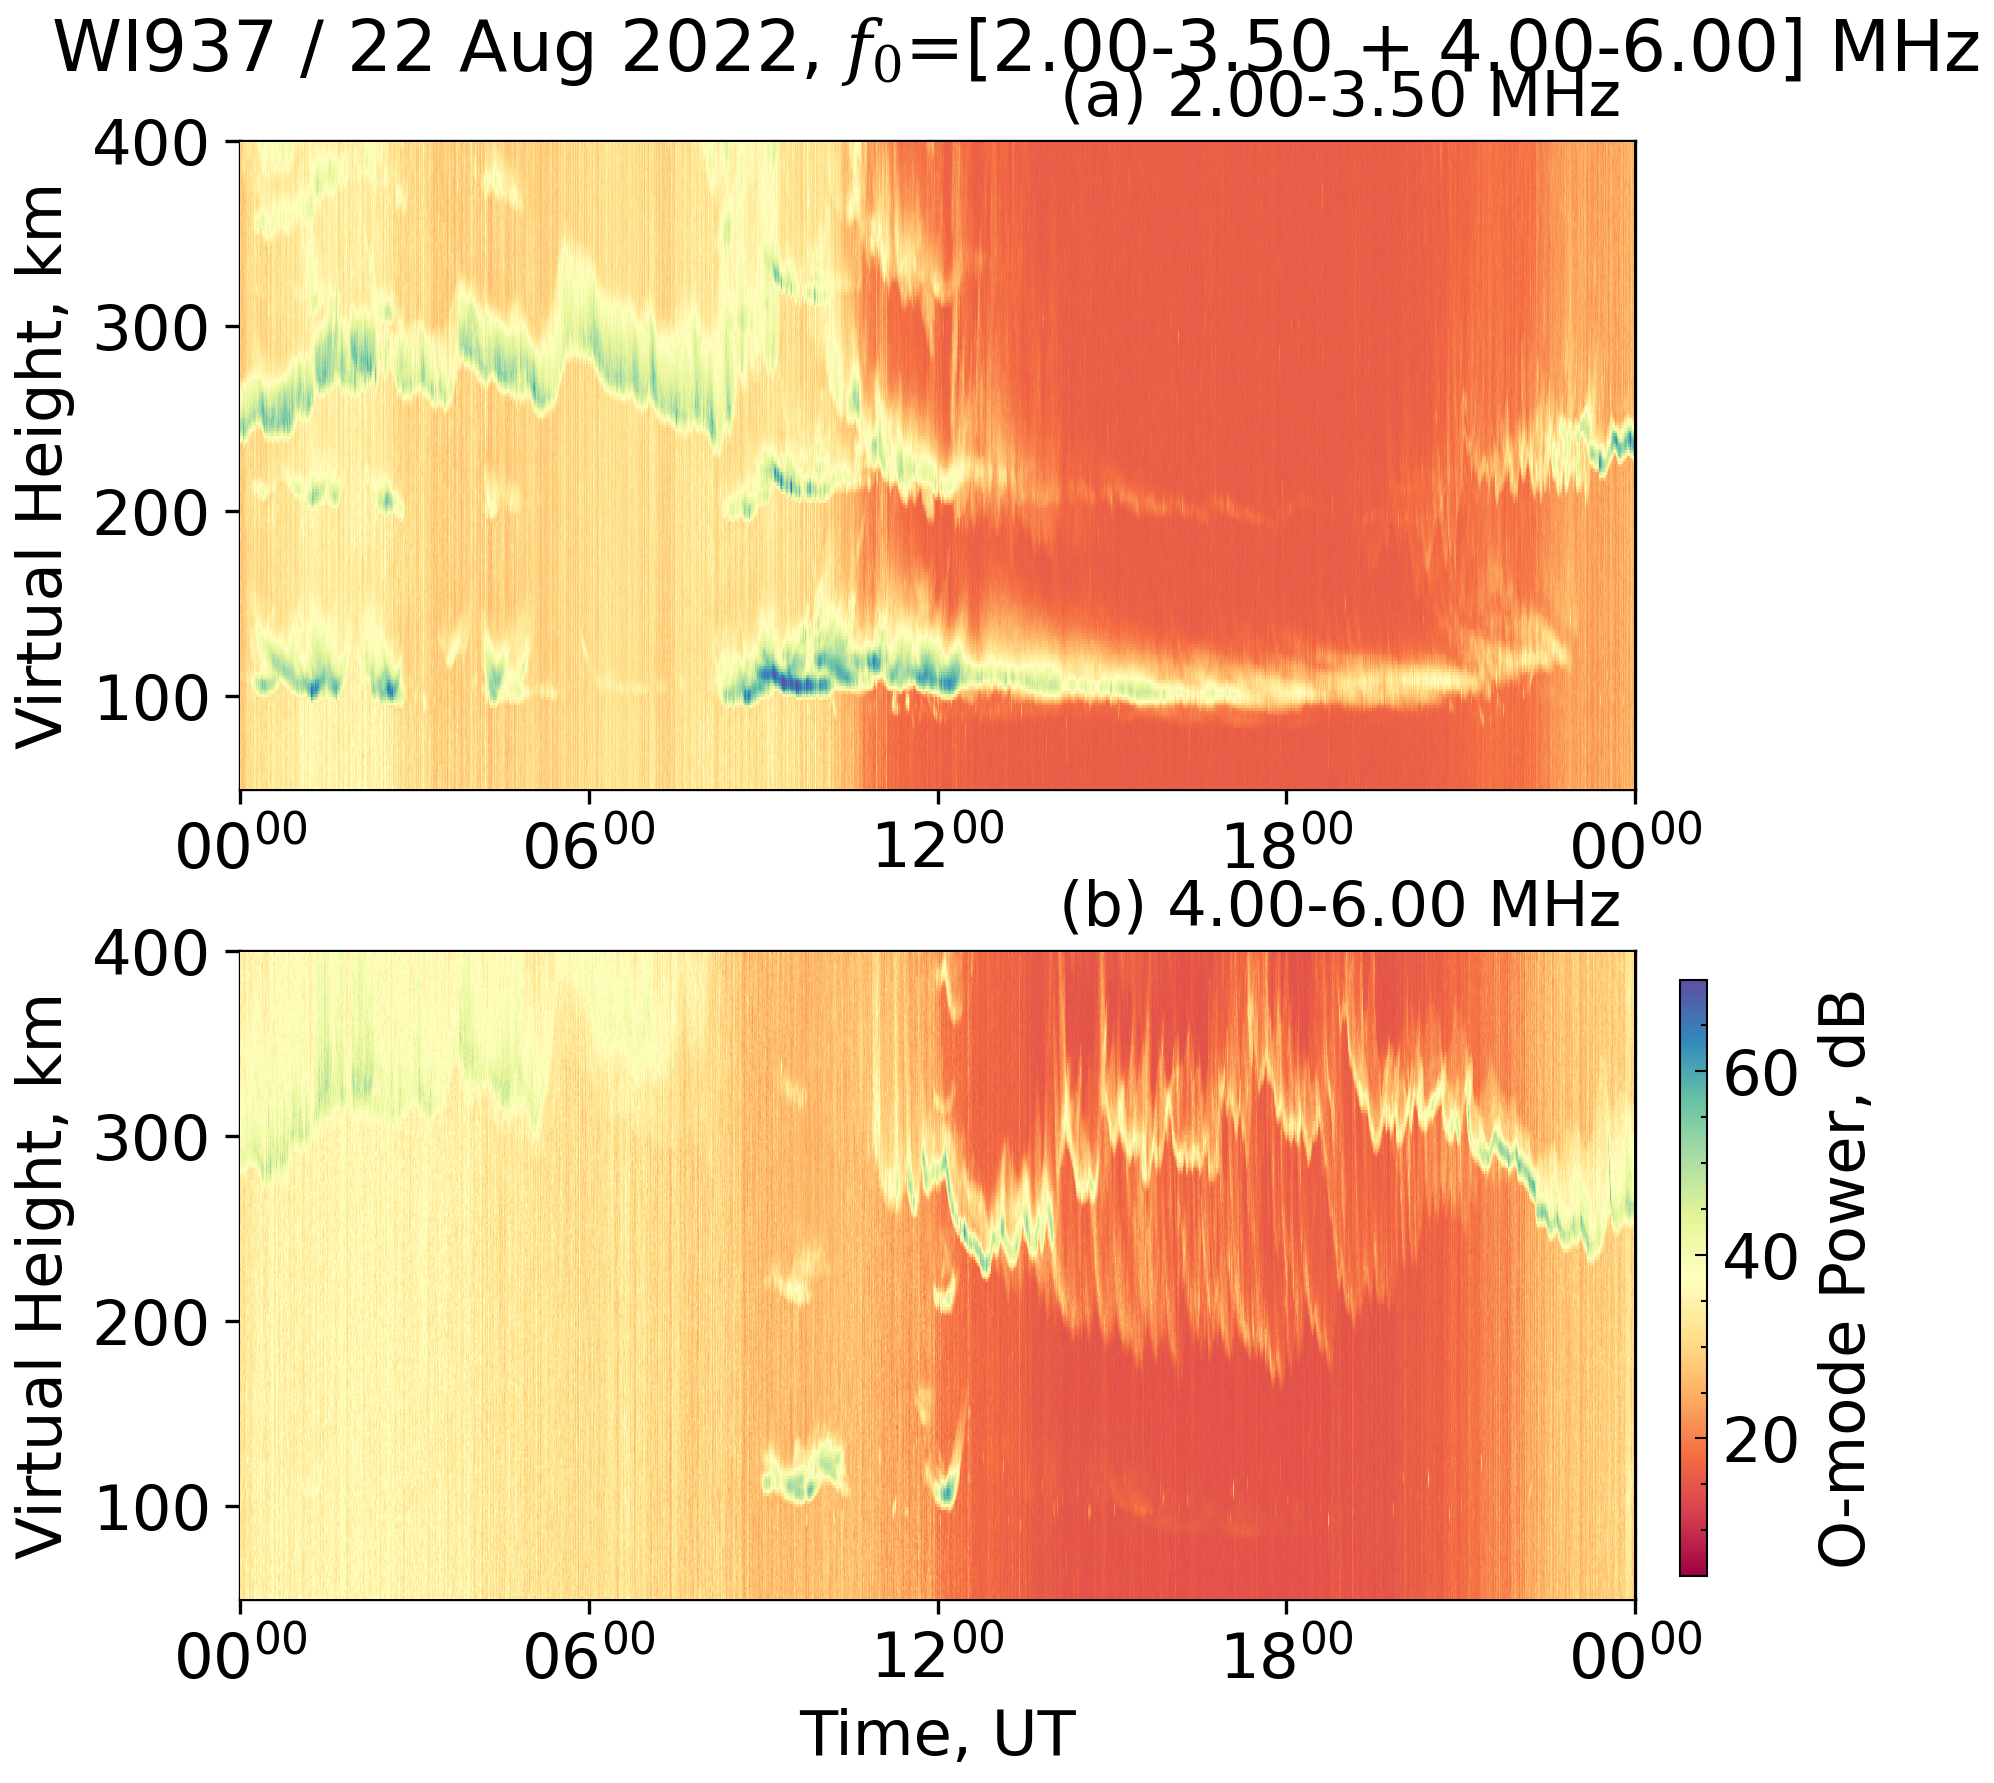
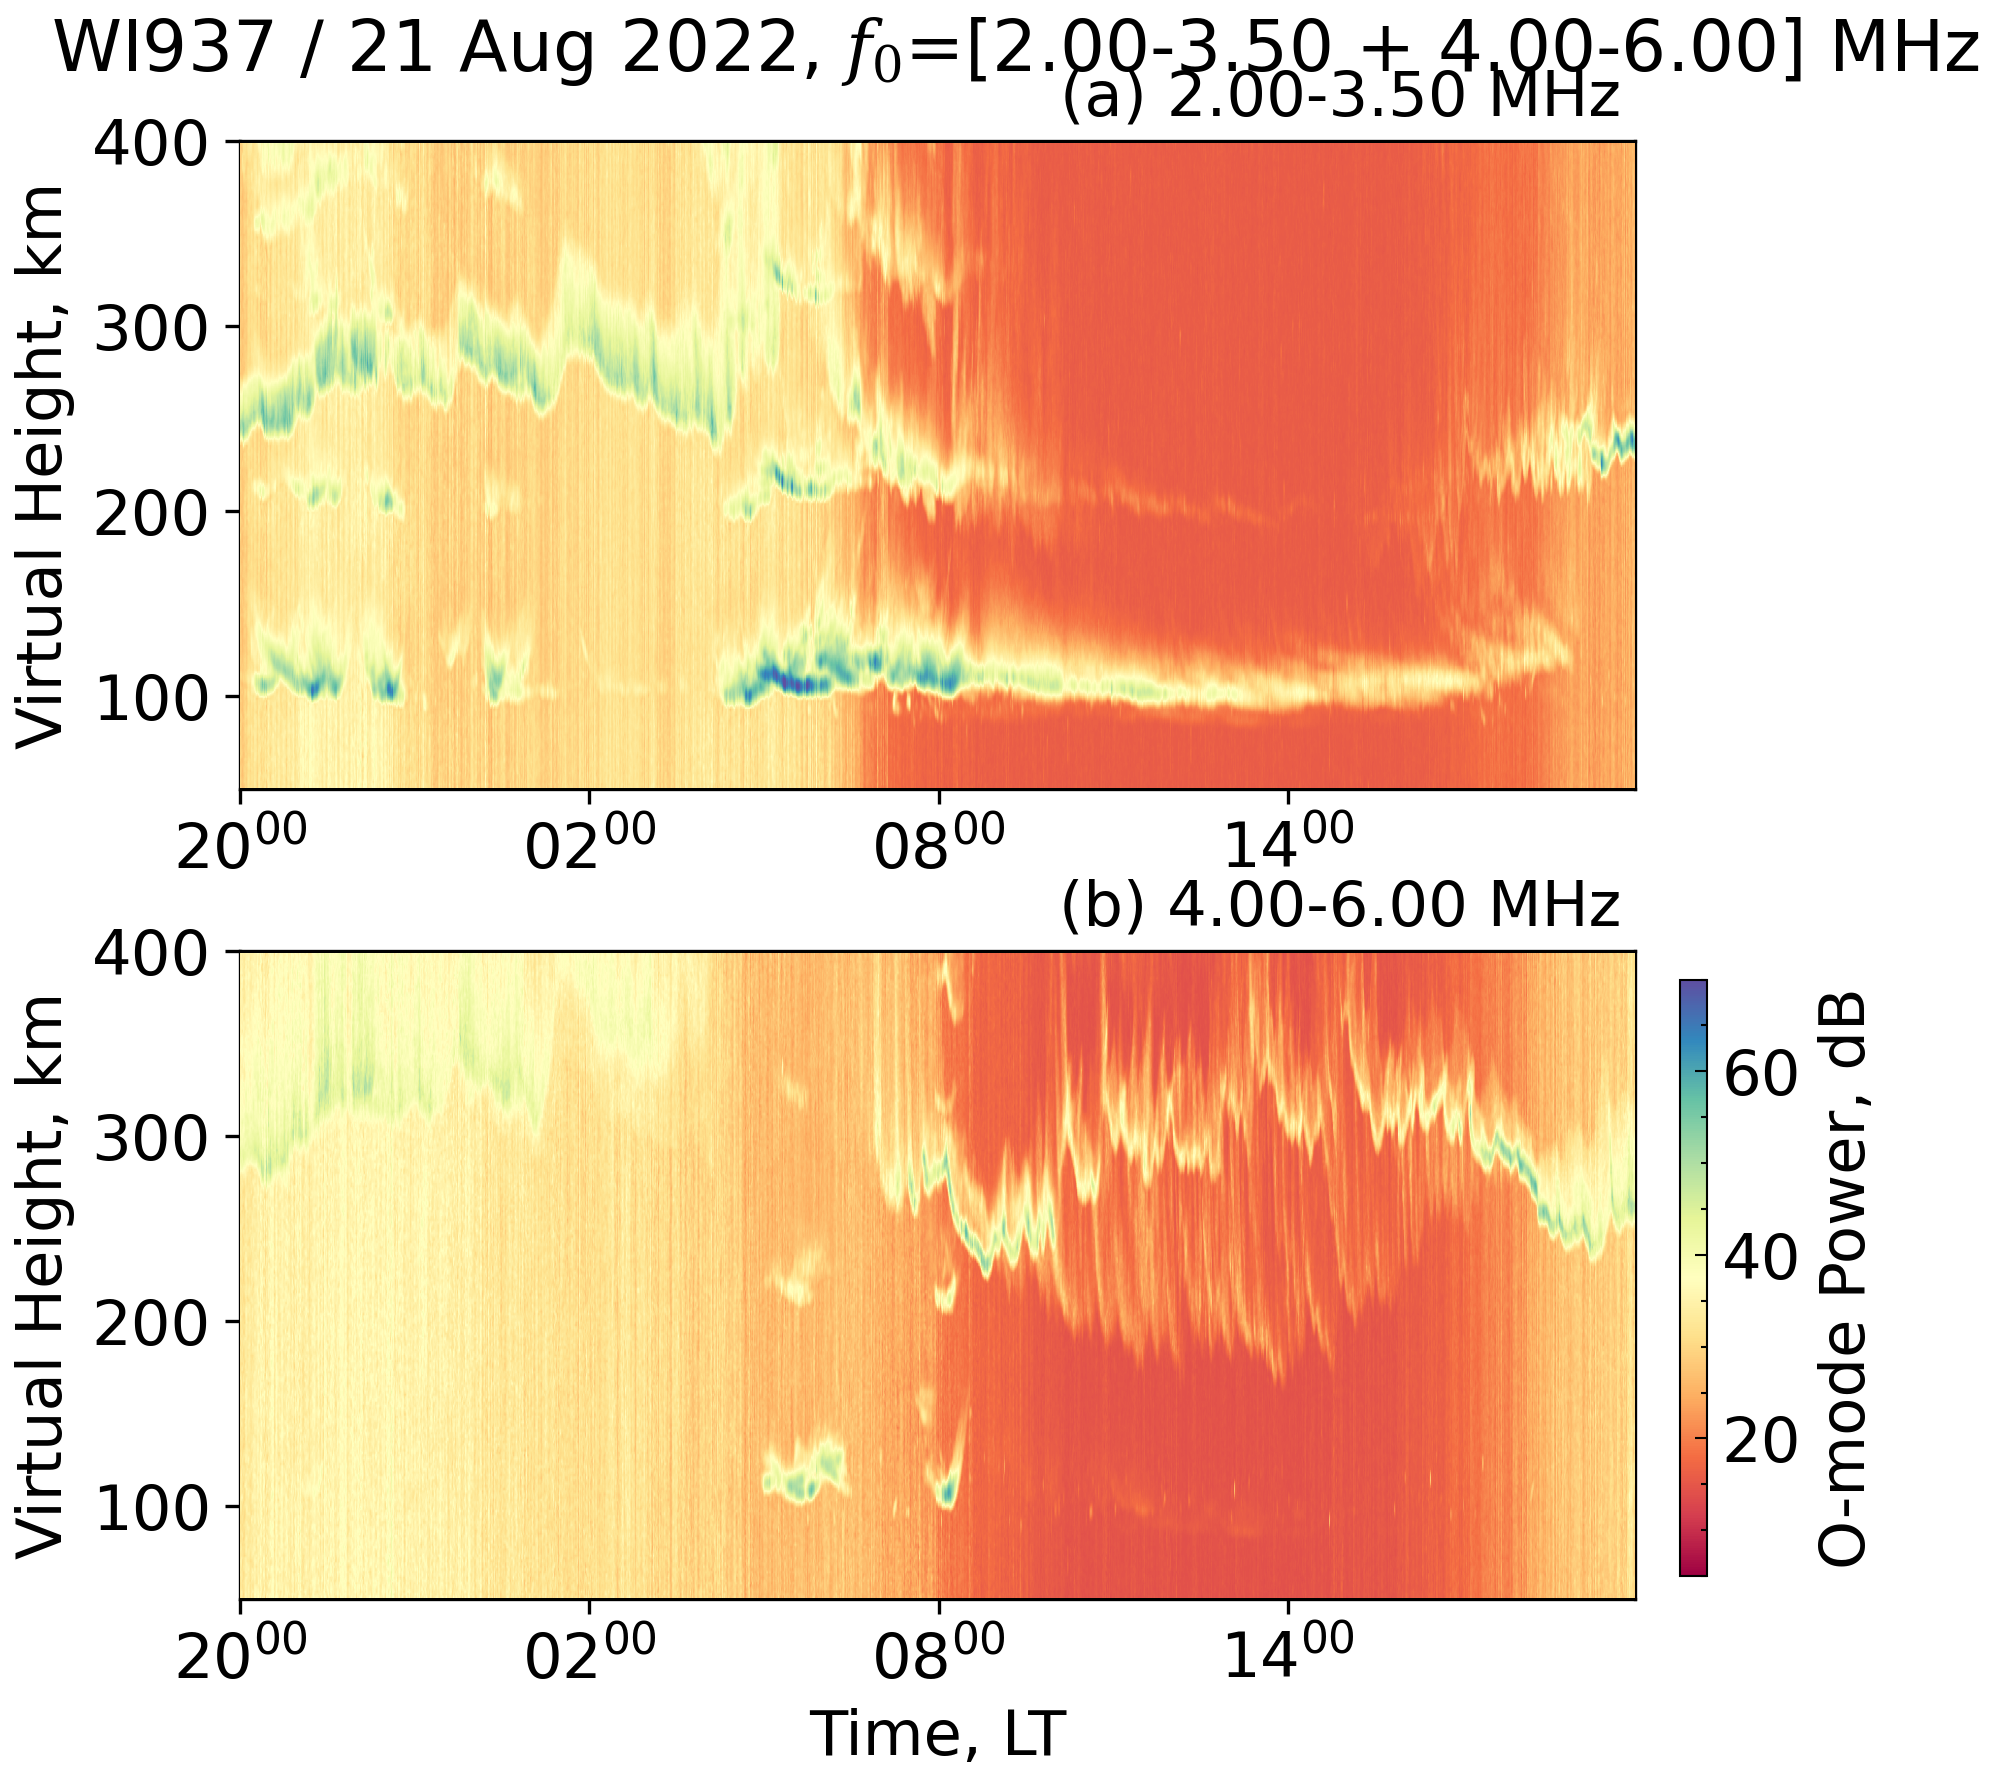
Updated figures V1 - Paper

diff --git a/examples/vipir/fti.py b/examples/vipir/fti.py
@@ -26,6 +26,7 @@ from loguru import logger
 from pynasonde.digisonde.digi_utils import setsize
 from pynasonde.vipir.ngi.plotlib import Ionogram
 from pynasonde.vipir.ngi.source import DataSource
+from pynasonde.vipir.ngi.utils import TimeZoneConversion
 
 font_size = 15
 setsize(font_size)
@@ -85,7 +86,7 @@ def generate_fti_profiles(
 
     mode = "O"
     rti = pd.DataFrame()
-    for dataset in ds.datasets:
+    for j, dataset in enumerate(ds.datasets):
         # Assemble a timestamp for the snapshot and project the ionogram cube onto
         # frequency × height grids so the values can be flattened into a DataFrame.
         time = dt.datetime(
@@ -96,6 +97,8 @@ def generate_fti_profiles(
             dataset.minute,
             dataset.second,
         )
+        if j == 0:
+            LTC = TimeZoneConversion(None, dataset.latitude, dataset.longitude)
         logger.info(f"Processing snapshot at {time:%Y-%m-%d %H:%M:%S}")
         frequency, range_gate = np.meshgrid(
             dataset.Frequency, dataset.Range, indexing="ij"
@@ -112,7 +115,8 @@ def generate_fti_profiles(
                 f"{mode}_mode_noise": noise.ravel(),
             }
         )
-        frame["time"] = time
+        # frame["time"] = time
+        frame["time"] = LTC.utc_to_local_time([time])[0]
         # Restrict to the shared altitude/frequency envelope covered by the requested bands.
         frame = frame[
             (frame.range <= 400)
@@ -147,10 +151,10 @@ def generate_fti_profiles(
         )
         ionogram.fig.subplots_adjust(top=0.92)
 
-    xdate_lims = [obs_start, obs_end]
     if date is not None:
         # When a specific day is supplied, pin the x-axis to a full 24-hour window.
         xdate_lims = [date, date + dt.timedelta(hours=24)]
+    xdate_lims = [obs_start, obs_end]
 
     band_frames: list[pd.DataFrame] = []
     for idx, (f_min, f_max) in enumerate(bands):
@@ -197,7 +201,7 @@ def generate_fti_profiles(
         axis = ionogram.add_interval_plots(
             band_df,
             mode,
-            xlabel="Time, UT" if idx == len(bands) - 1 else "",
+            xlabel="Time, LT" if idx == len(bands) - 1 else "",
             ylabel="Virtual Height, km",
             ylim=[50, 400],
             add_cbar=idx == len(bands) - 1,

diff --git a/examples/digisonde/sao.py b/examples/digisonde/sao.py
@@ -48,7 +48,7 @@ sao_plot = SaoSummaryPlots(
 sao_plot.add_TS(
     df,
     zparam="ed",
-    prange=[0, 1],
+    prange=[0, 2],
     zparam_lim=10,
     cbar_label=r"$N_e$,$\times 10^{6}$ /cc",
     plot_type="scatter",
